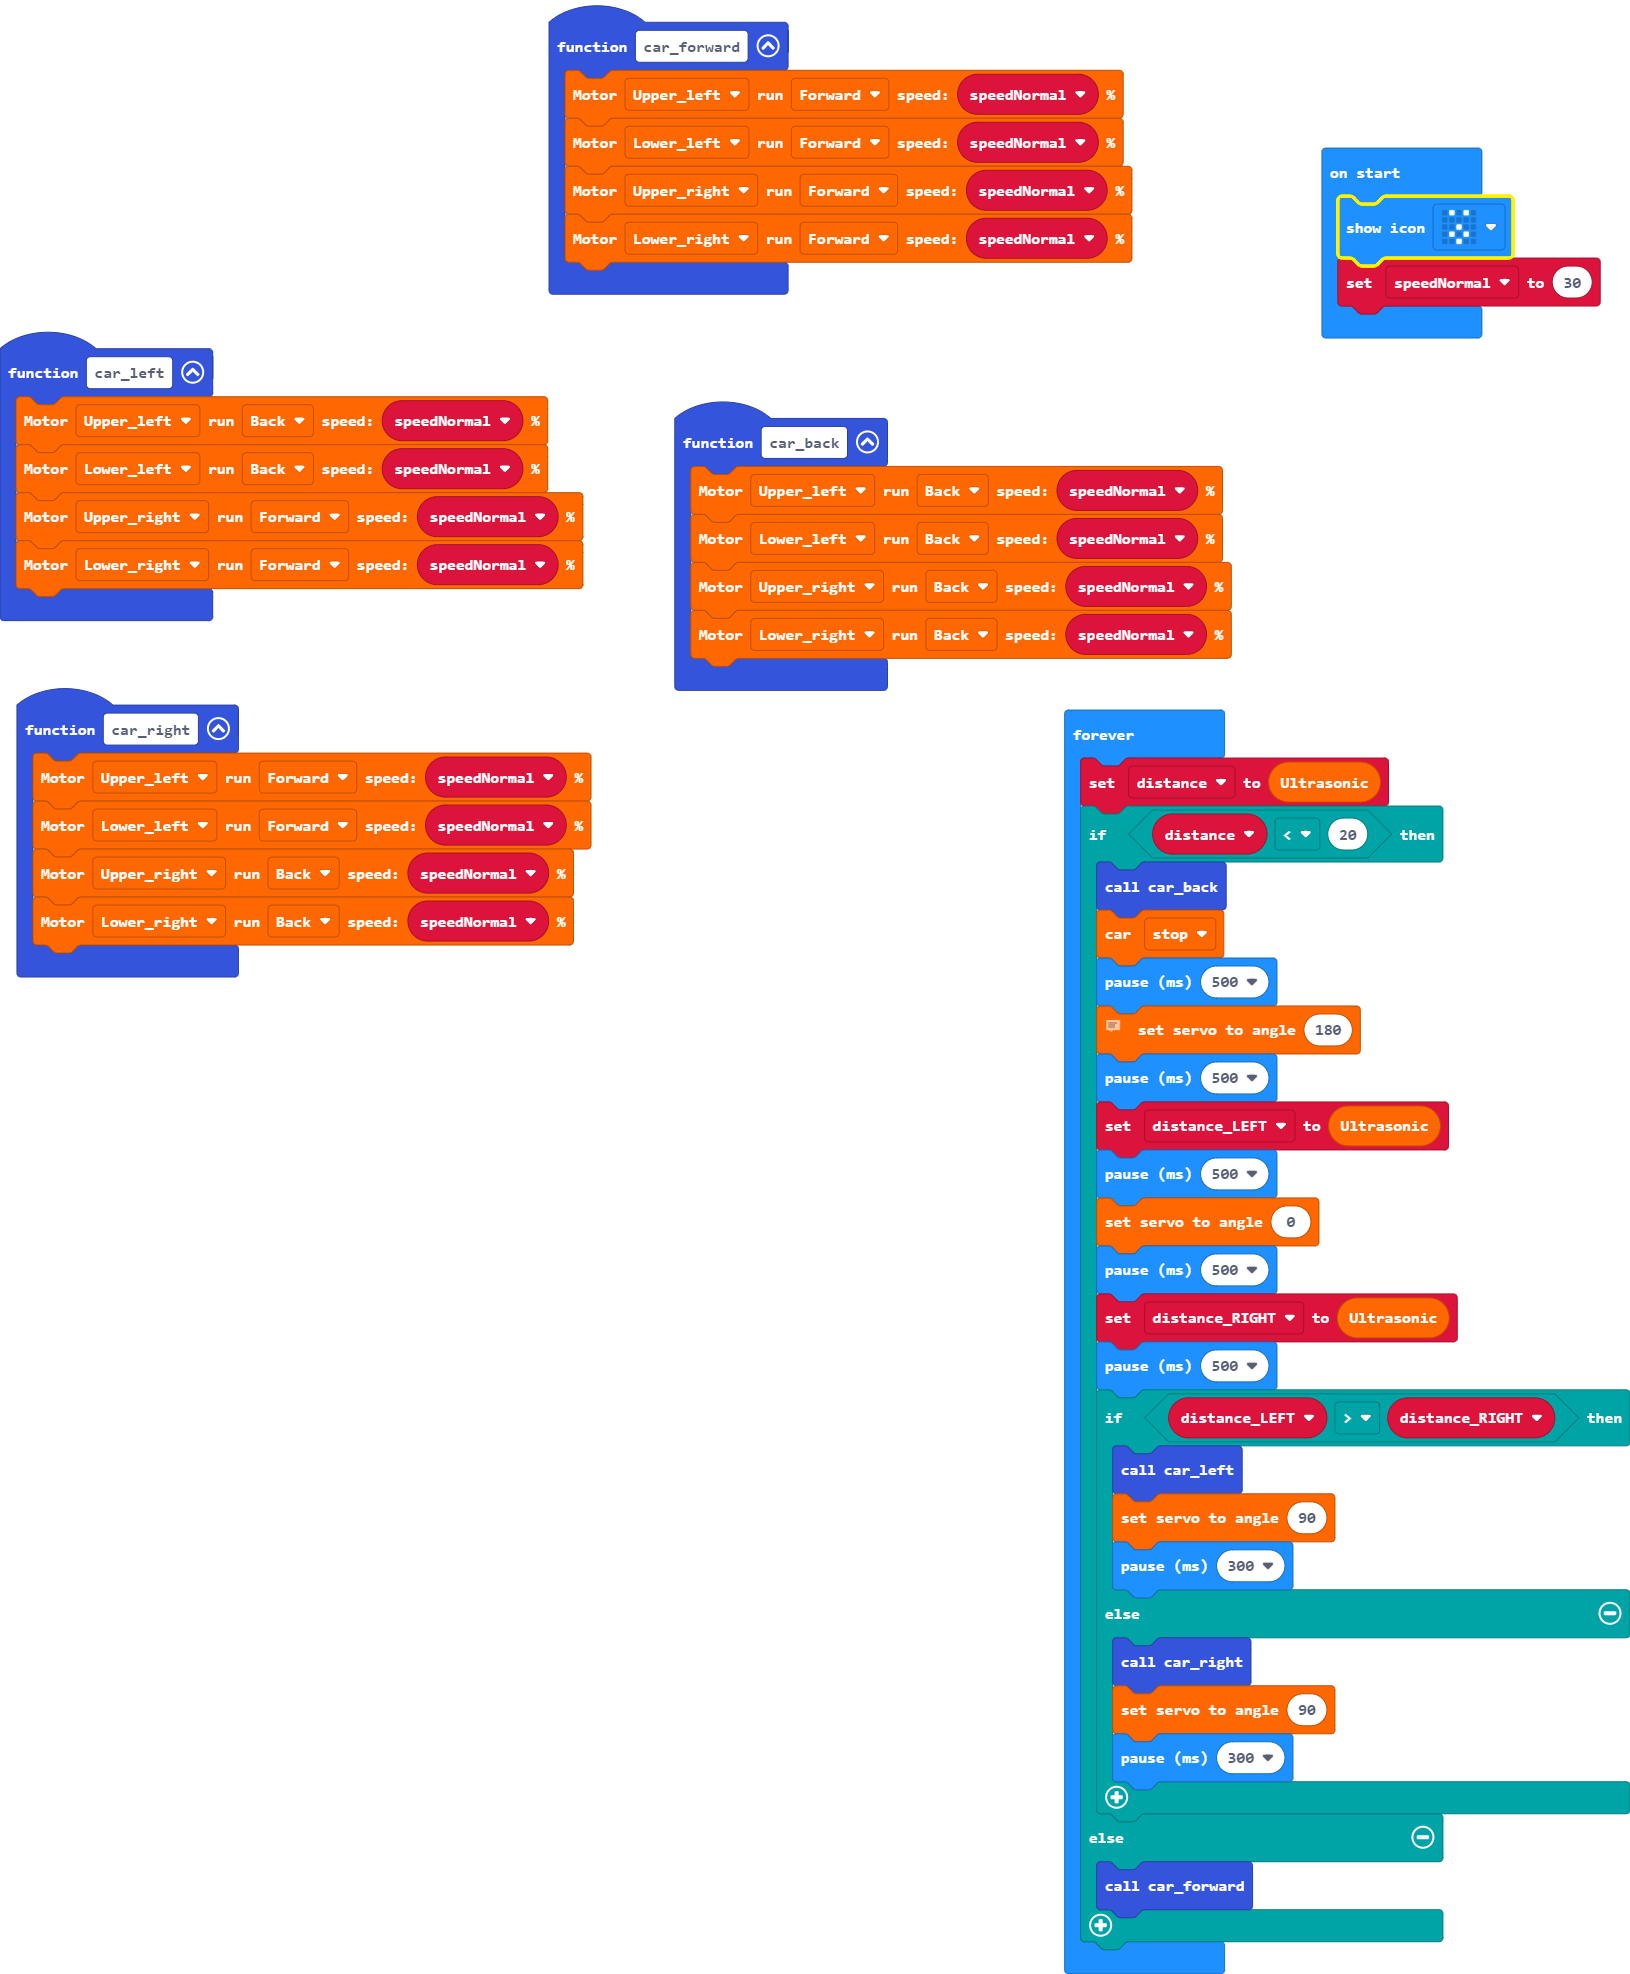
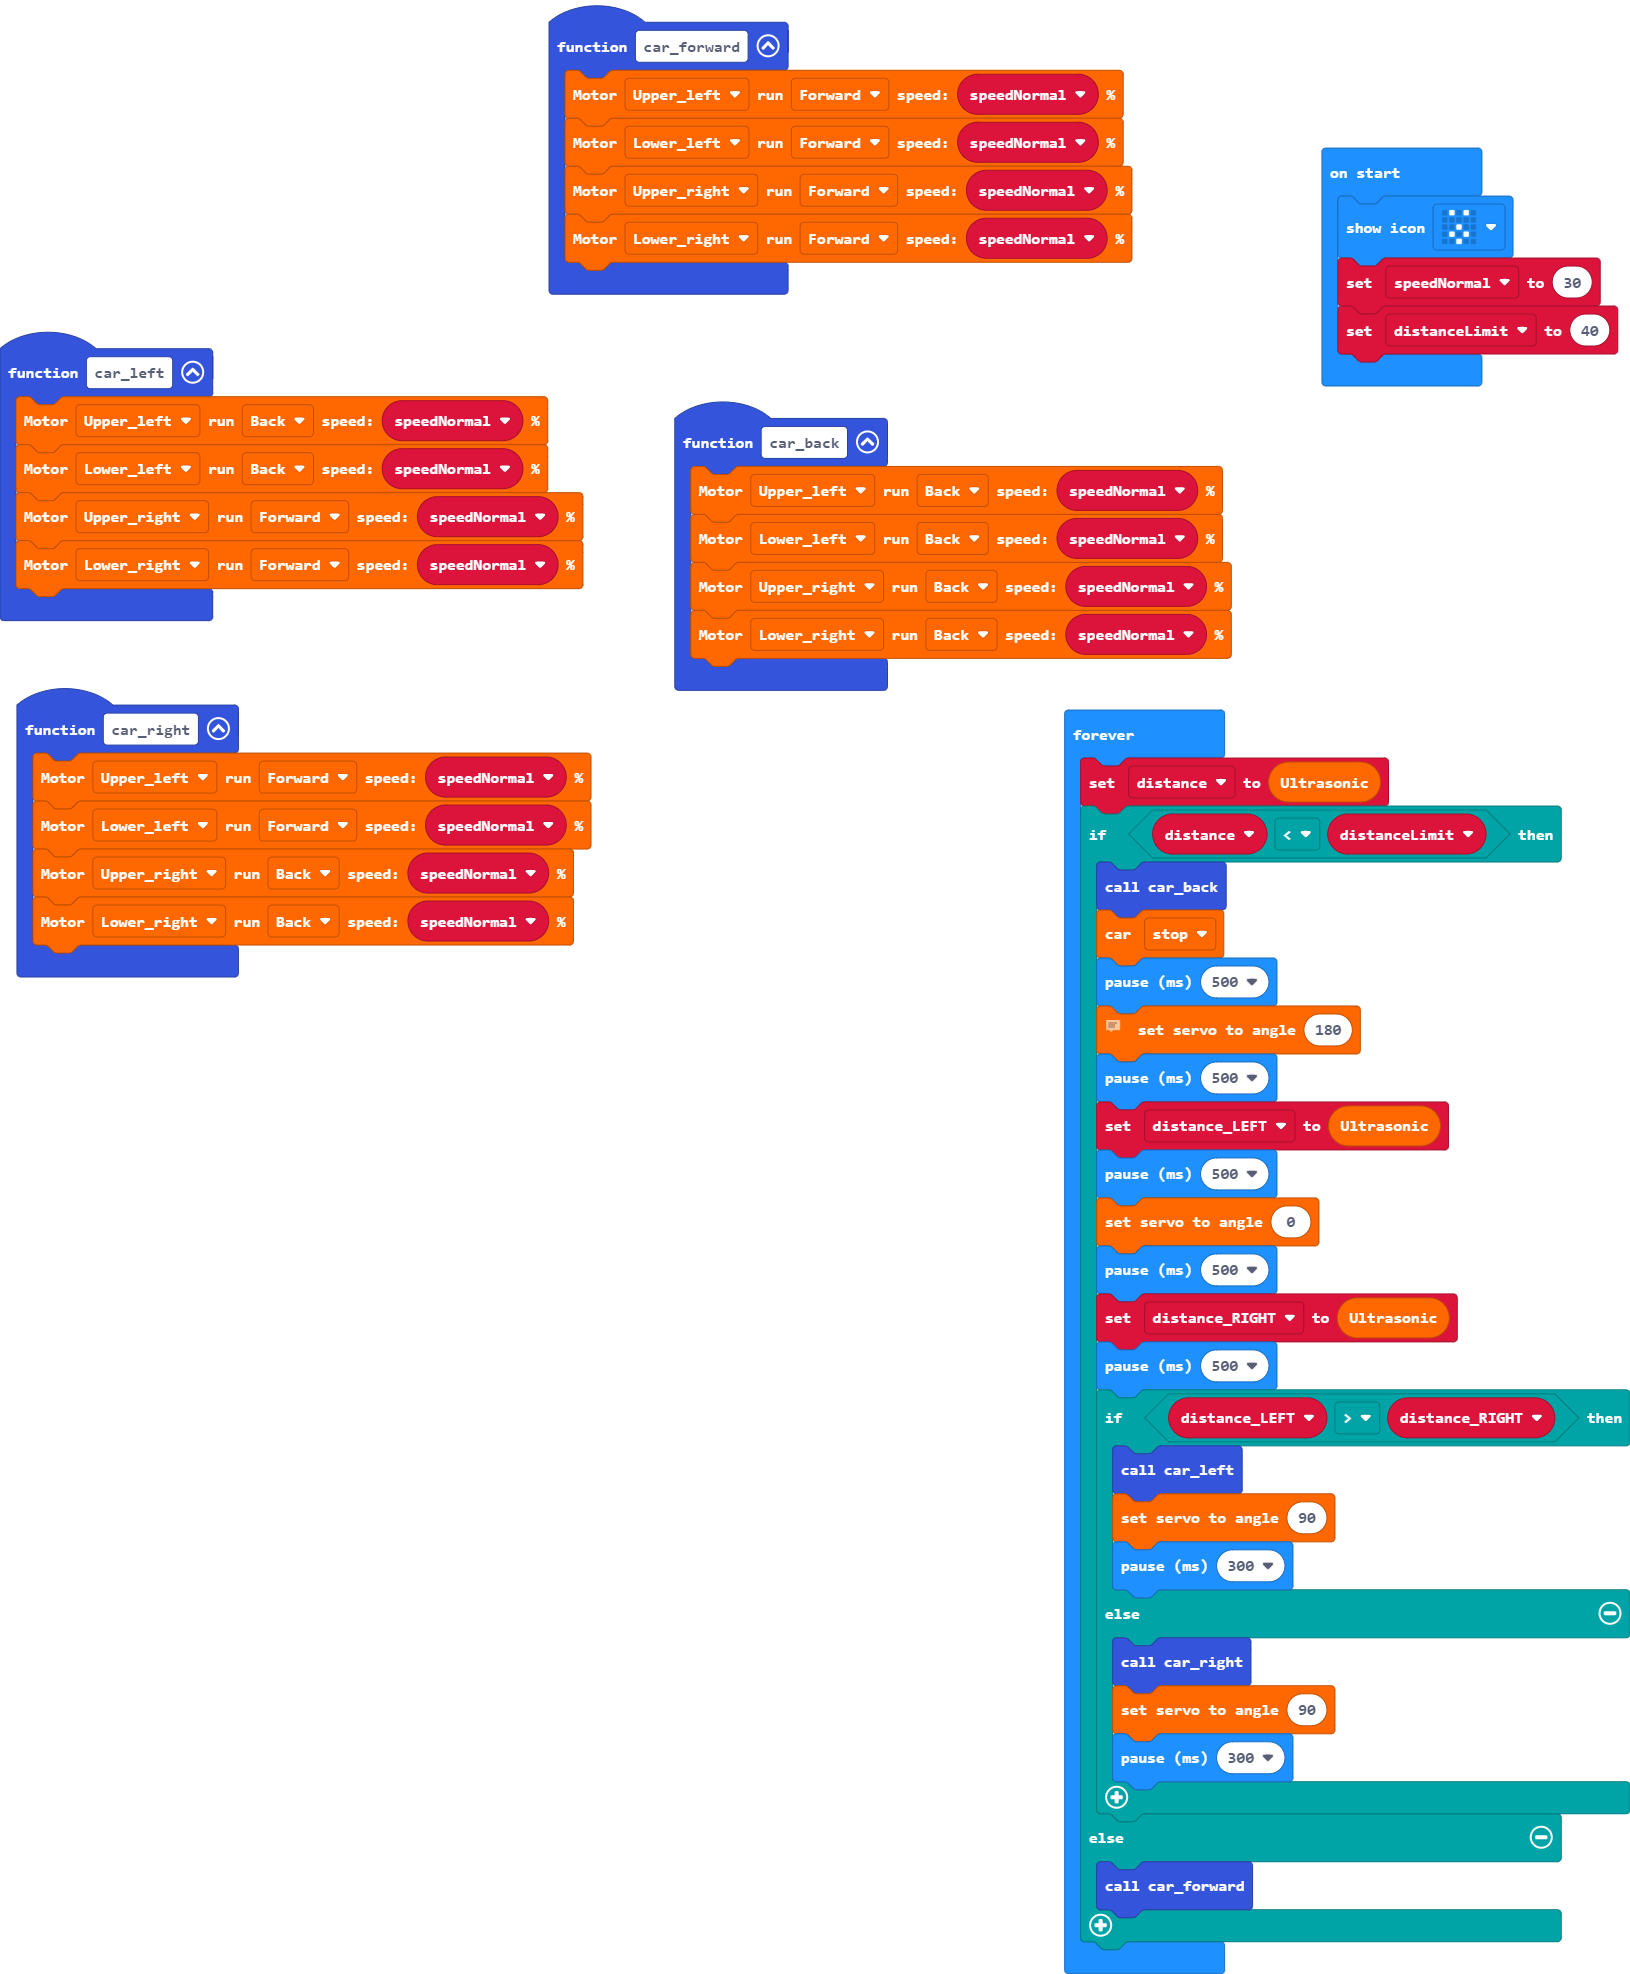
Update main.blocks, main.ts

Changed region(s): [[0.7975, 0.1545, 1.0, 0.2163], [0.8589, 0.8961, 0.9816, 0.9889], [0.7975, 0.4017, 0.9816, 0.4635]]

diff --git a/main.ts b/main.ts
@@ -28,9 +28,10 @@ let distance = 0
 let speedNormal = 0
 basic.showIcon(IconNames.Surprised)
 speedNormal = 30
+let distanceLimit = 40
 basic.forever(function () {
     distance = mecanumRobot.ultra()
-    if (distance < 20) {
+    if (distance < distanceLimit) {
         car_back()
         mecanumRobot.state(MotorState.stop)
         basic.pause(500)
